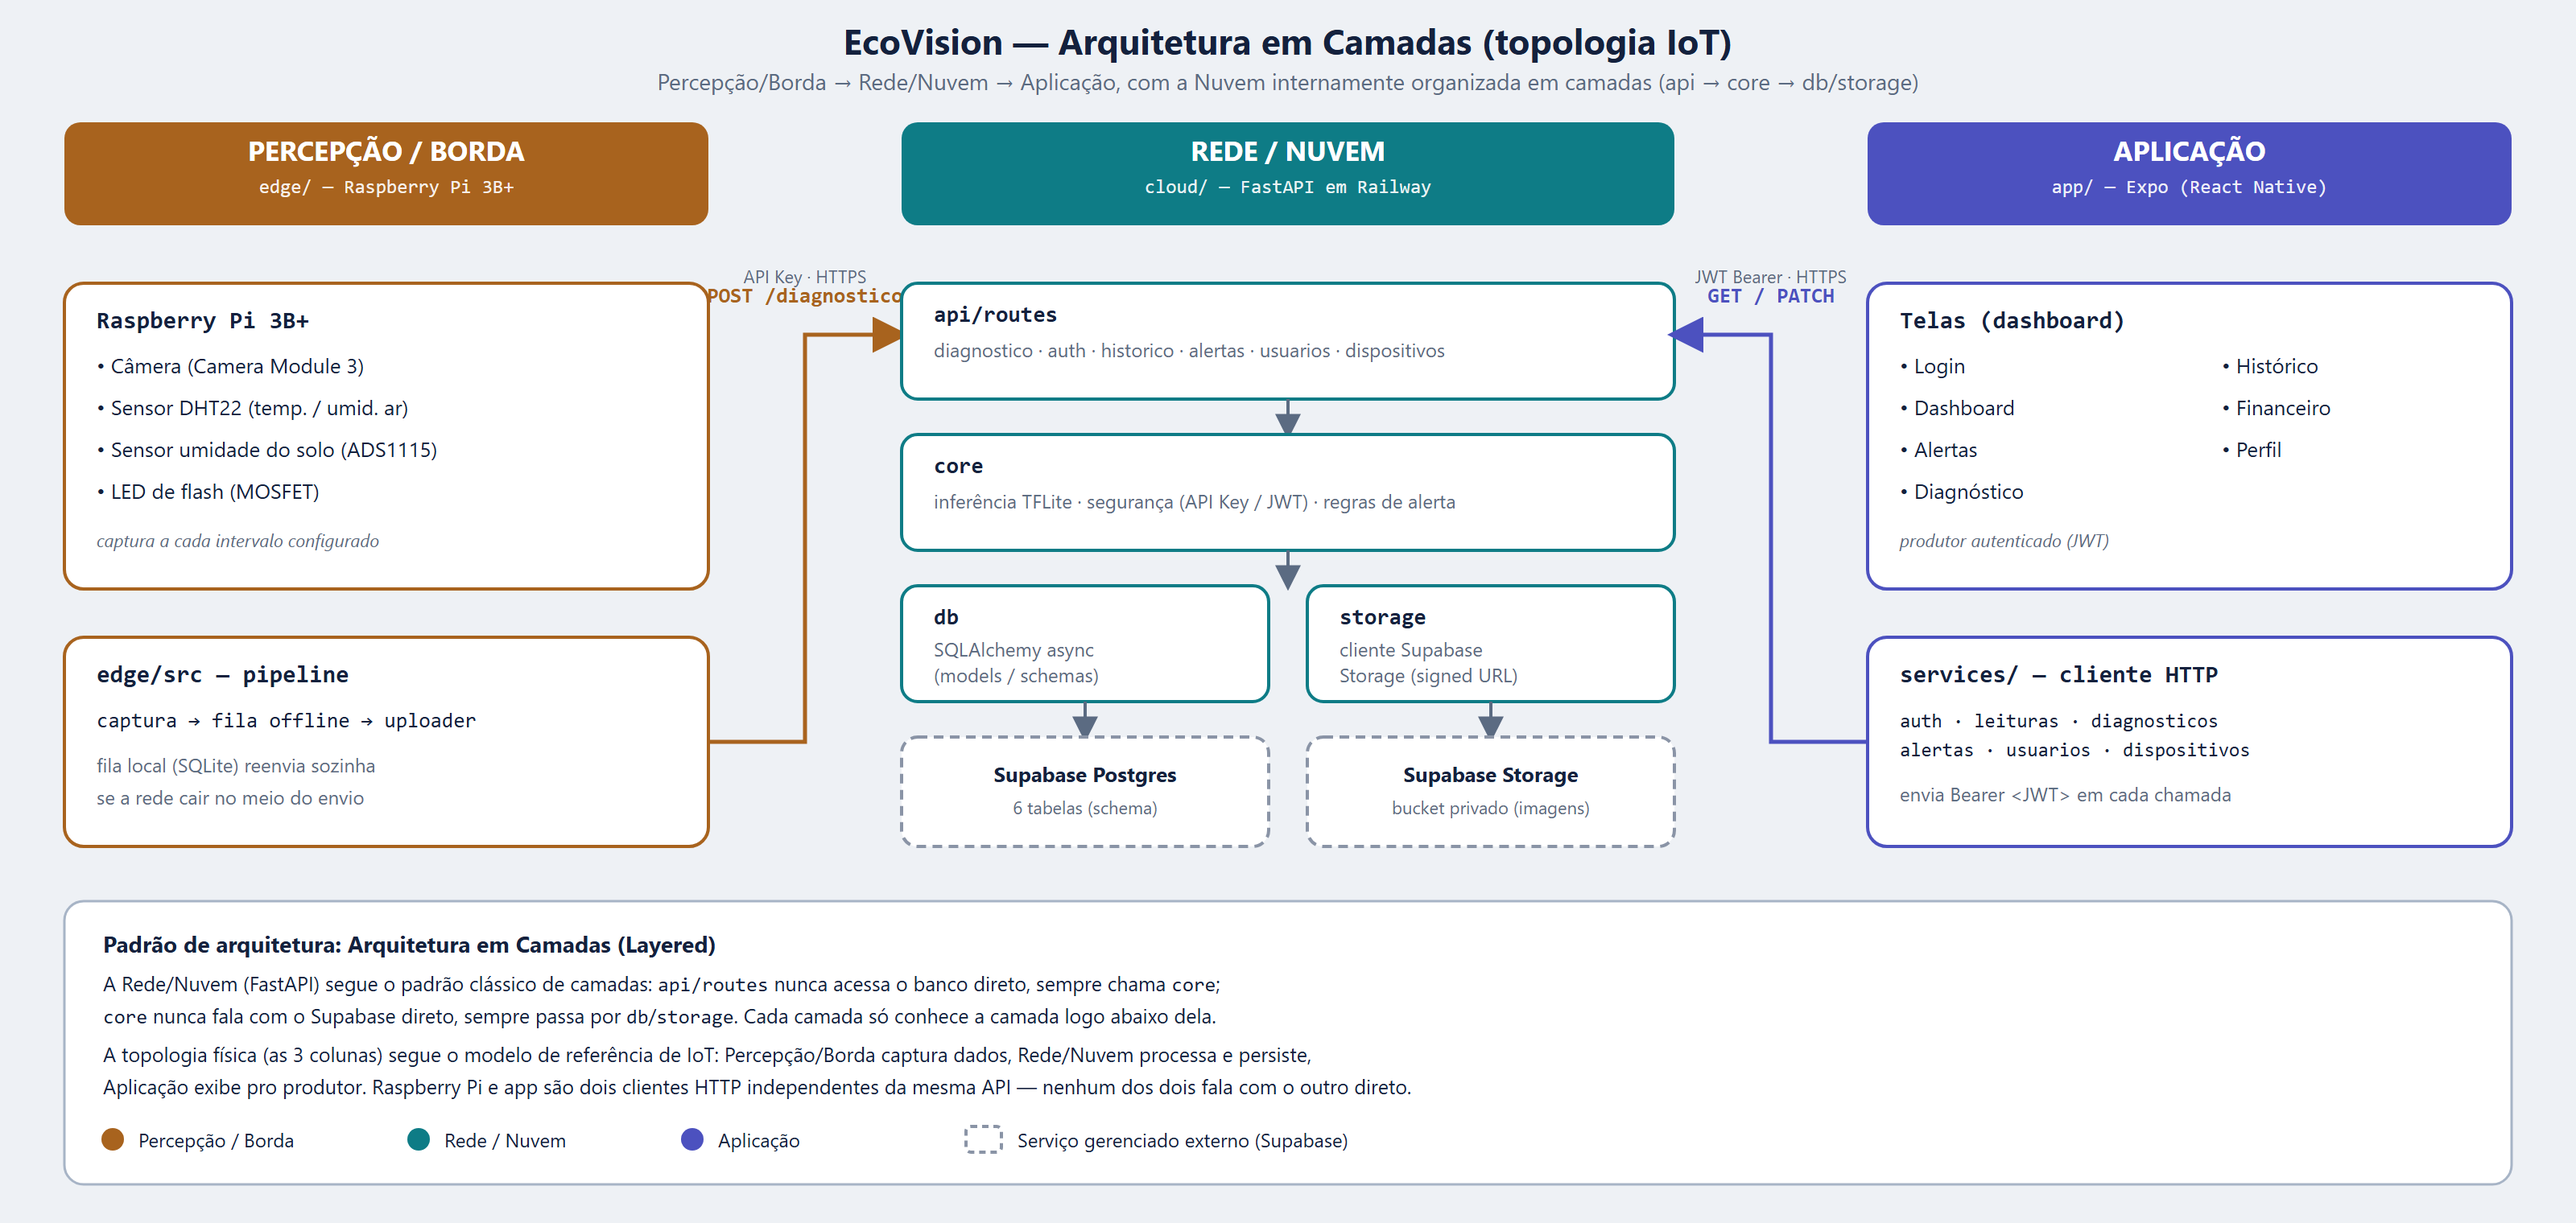
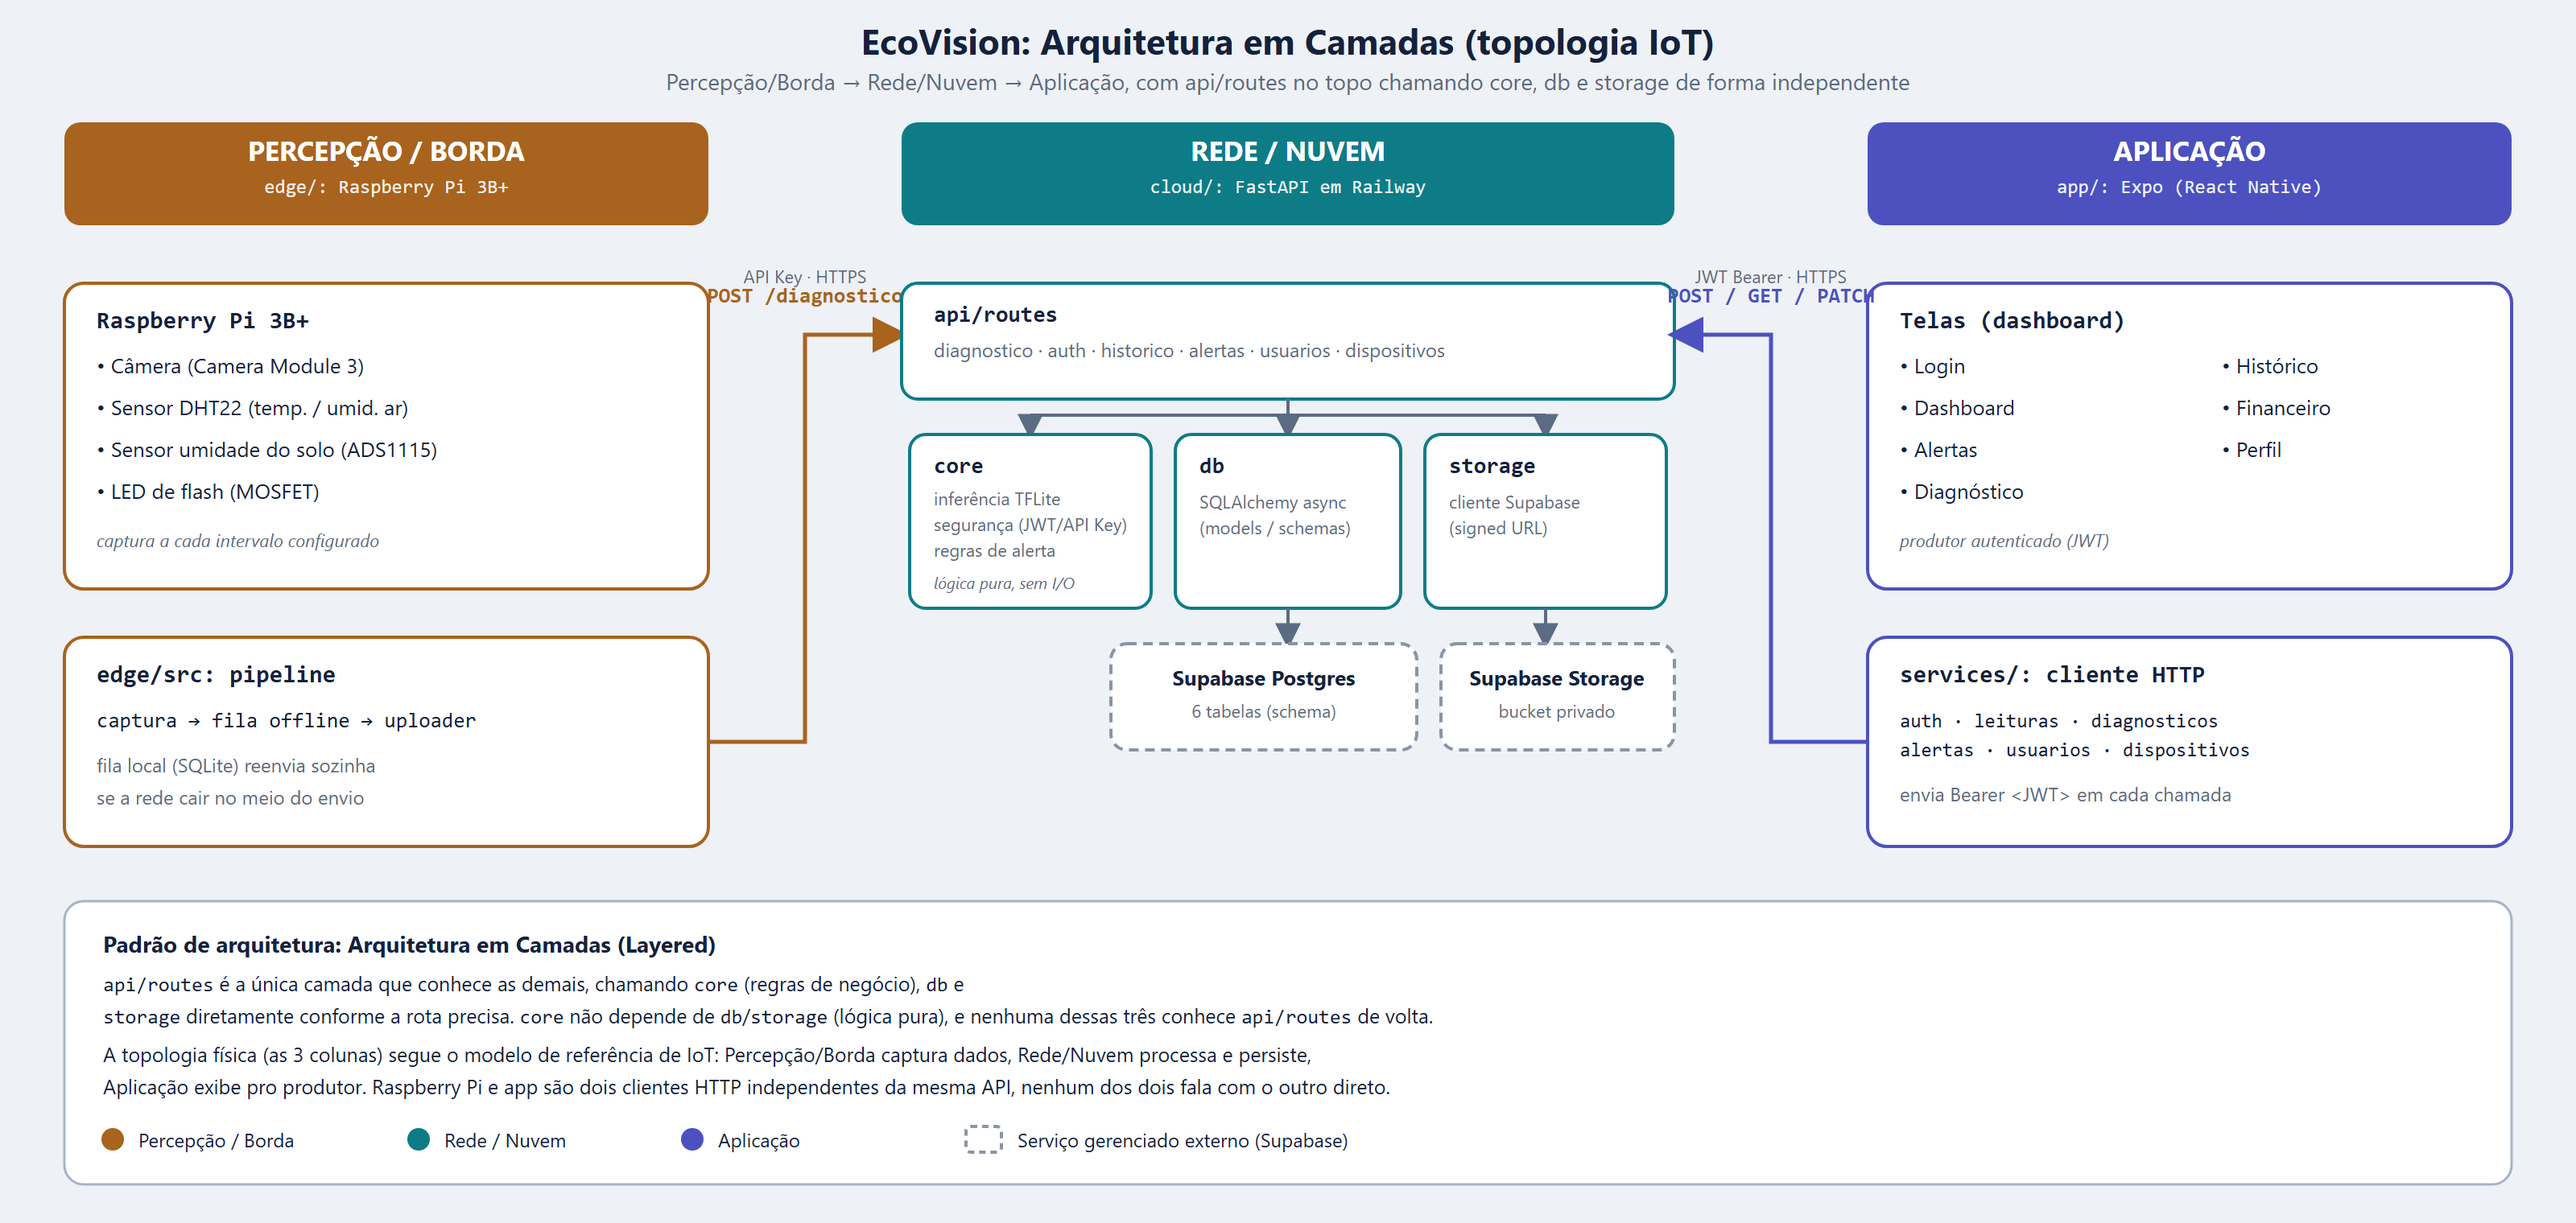
fix(docs): corrige diagrama de arquitetura e cita referencias da disciplina
O diagrama descrevia api/routes -> core -> db/storage como uma cadeia
sequencial. Conferido nos imports reais do codigo: toda rota chama db
e storage direto, sem passar por core (que nao depende de nenhum dos
dois). Corrige o diagrama para mostrar o leque real de dependencias,
remove travessao da imagem, corrige sobreposicao entre as caixas do
Supabase Postgres e Storage, e cita as referencias de EDA, arquitetura
serverless em camadas e CQRS enviadas pela professora, que reforcam a
escolha de Layered.

diff --git a/docs/architecture/blueprint-reference.md b/docs/architecture/blueprint-reference.md
@@ -22,18 +22,36 @@ pasta compartilhada do grupo, ver README raiz). O conteúdo completo NÃO
 
 Padrão declarado: **Arquitetura em Camadas (Layered)**. A topologia
 física segue o modelo de referência de IoT em 3 camadas (percepção/
-borda, rede/nuvem, aplicação), e a camada de nuvem (`cloud/`) por si só
-já segue o padrão de camadas internamente: `api/routes` nunca acessa o
-banco direto, sempre chama `core`; `core` nunca fala com o Supabase
-direto, sempre passa por `db`/`storage`. Cada camada só conhece a
-camada logo abaixo dela.
+borda, rede/nuvem, aplicação). Dentro da camada de nuvem (`cloud/`),
+`api/routes` é a única camada que conhece as demais: cada rota chama
+`core` (regras de negócio puras, sem I/O), `db` e `storage` diretamente
+conforme a necessidade, sem passar por uma cadeia fixa. `core` não
+depende de `db` nem de `storage`, e nenhuma dessas três camadas conhece
+`api/routes` de volta, o que preserva a regra de dependência unidirecional
+da Arquitetura em Camadas (checado direto nos imports do código em
+2026-09-20, não é só teoria de diagrama).
 
 Padrões como Event-Driven, Space-Based ou CQRS + Event Sourcing (às
 vezes recomendados de forma genérica para cenários de IoT) não se
 encaixam aqui: o dispositivo não opera em tempo real, captura a cada
 intervalo fixo (2h) e manda uma requisição HTTP isolada por vez, sem
 volume de eventos concorrentes nem necessidade de replay/auditoria de
-eventos que justificasse a complexidade extra desses padrões.
+eventos que justificasse a complexidade extra desses padrões. Isso foi
+conferido contra o material de referência da disciplina:
+- [O que é EDA (AWS)](https://aws.amazon.com/pt/what-is/eda/): a própria
+  AWS lista como público-alvo da EDA workloads com tráfego variável/em
+  picos e processamento sob demanda no lugar de lotes periódicos, o
+  oposto do nosso caso (captura em lote a cada 2h).
+- [Arquitetura de referência de Data Analytics Serverless (AWS)](https://aws.amazon.com/pt/blogs/aws-brasil/aws-serverless-data-analytics-arquitetura-de-referencia/):
+  mesmo a própria AWS descreve seu pipeline de dados de referência como
+  "arquitetura em camadas orientada a componentes", não como EDA, mesmo
+  tendo gatilhos por evento em uma das camadas.
+- [CQRS na AWS com Amazon SQS](https://aws.amazon.com/pt/blogs/aws-brasil/cqrs-na-aws-sincronizando-os-servicos-de-command-e-query-com-o-amazon-sqs/):
+  o próprio autor da AWS afirma que separar em dois serviços/bancos "só
+  compensa quando precisamos de escalabilidades diferentes ou bancos de
+  dados diferentes para atender a comandos e consultas", nenhum dos
+  quais é o caso do EcoVision (leitura e escrita de baixo volume, mesmo
+  banco).
 
 Fonte editável: `diagramas/arquitetura-em-camadas.svg`.
 
